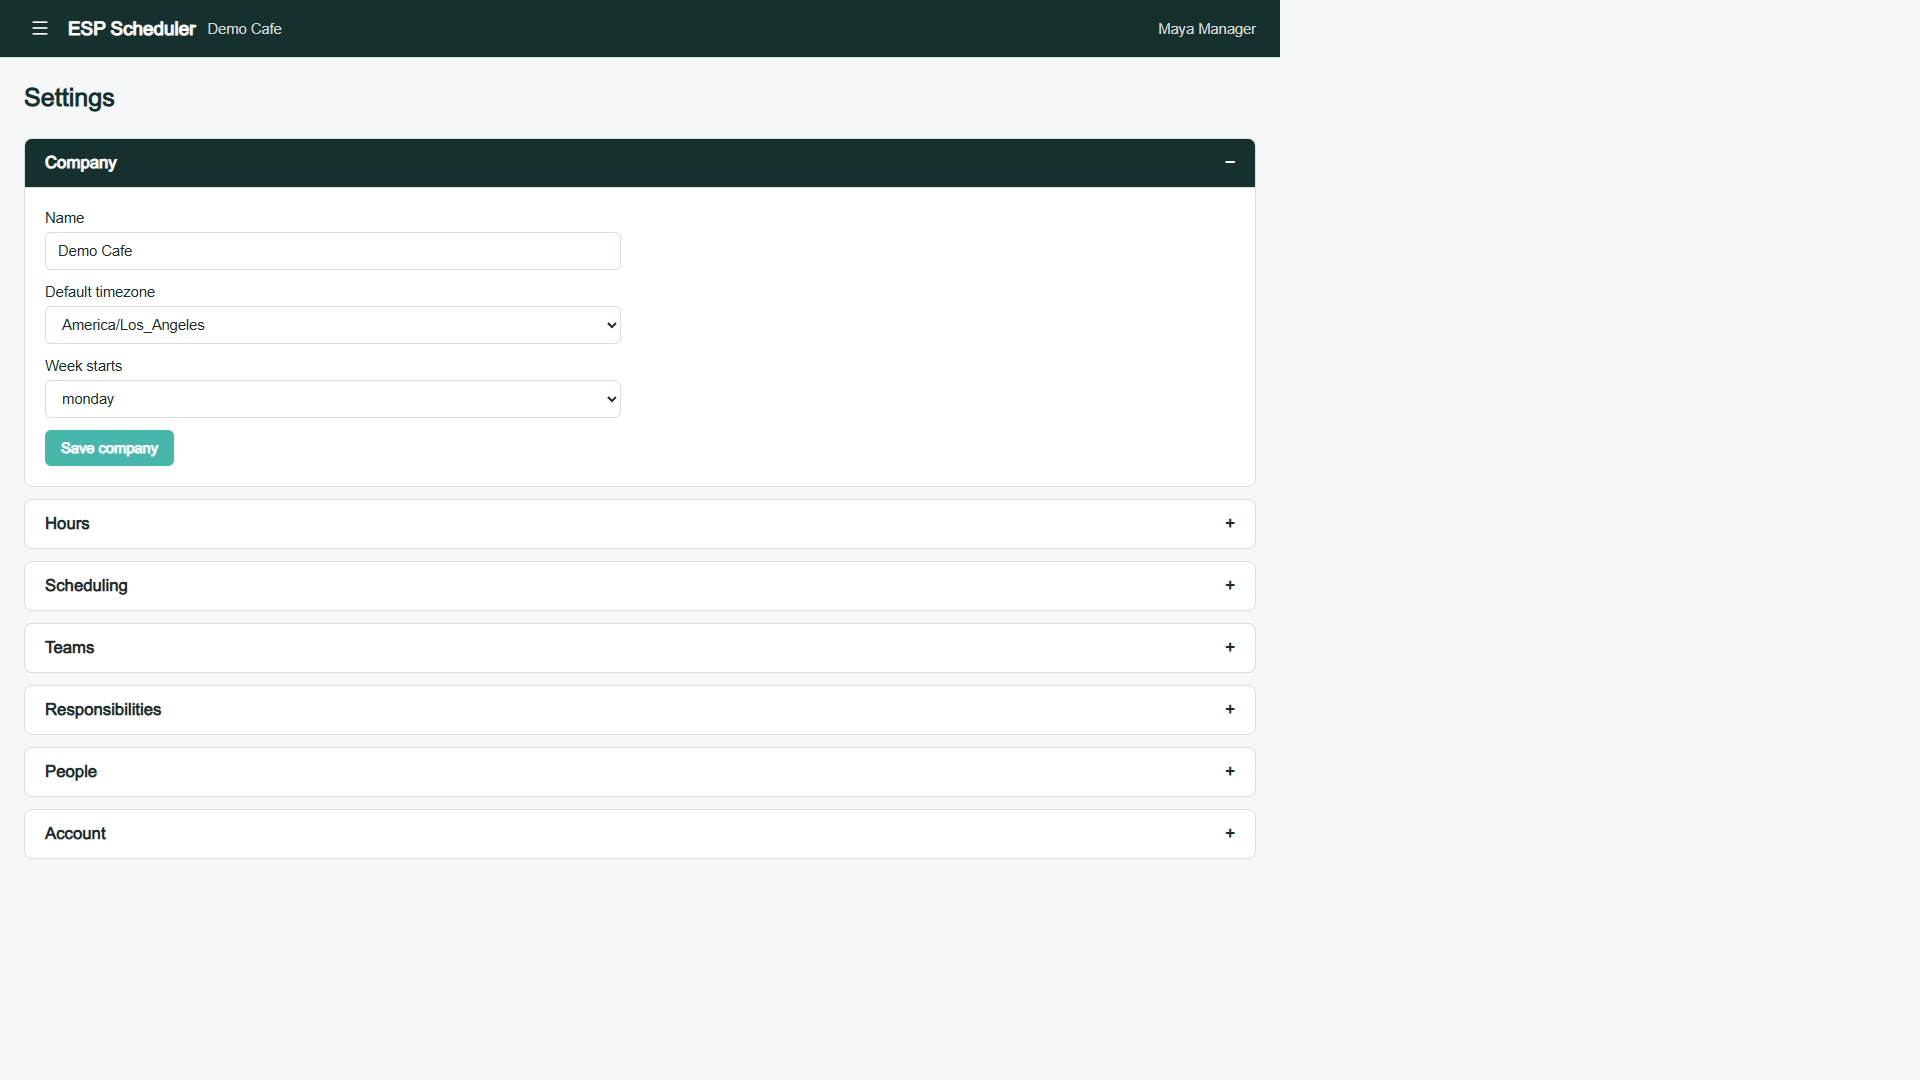
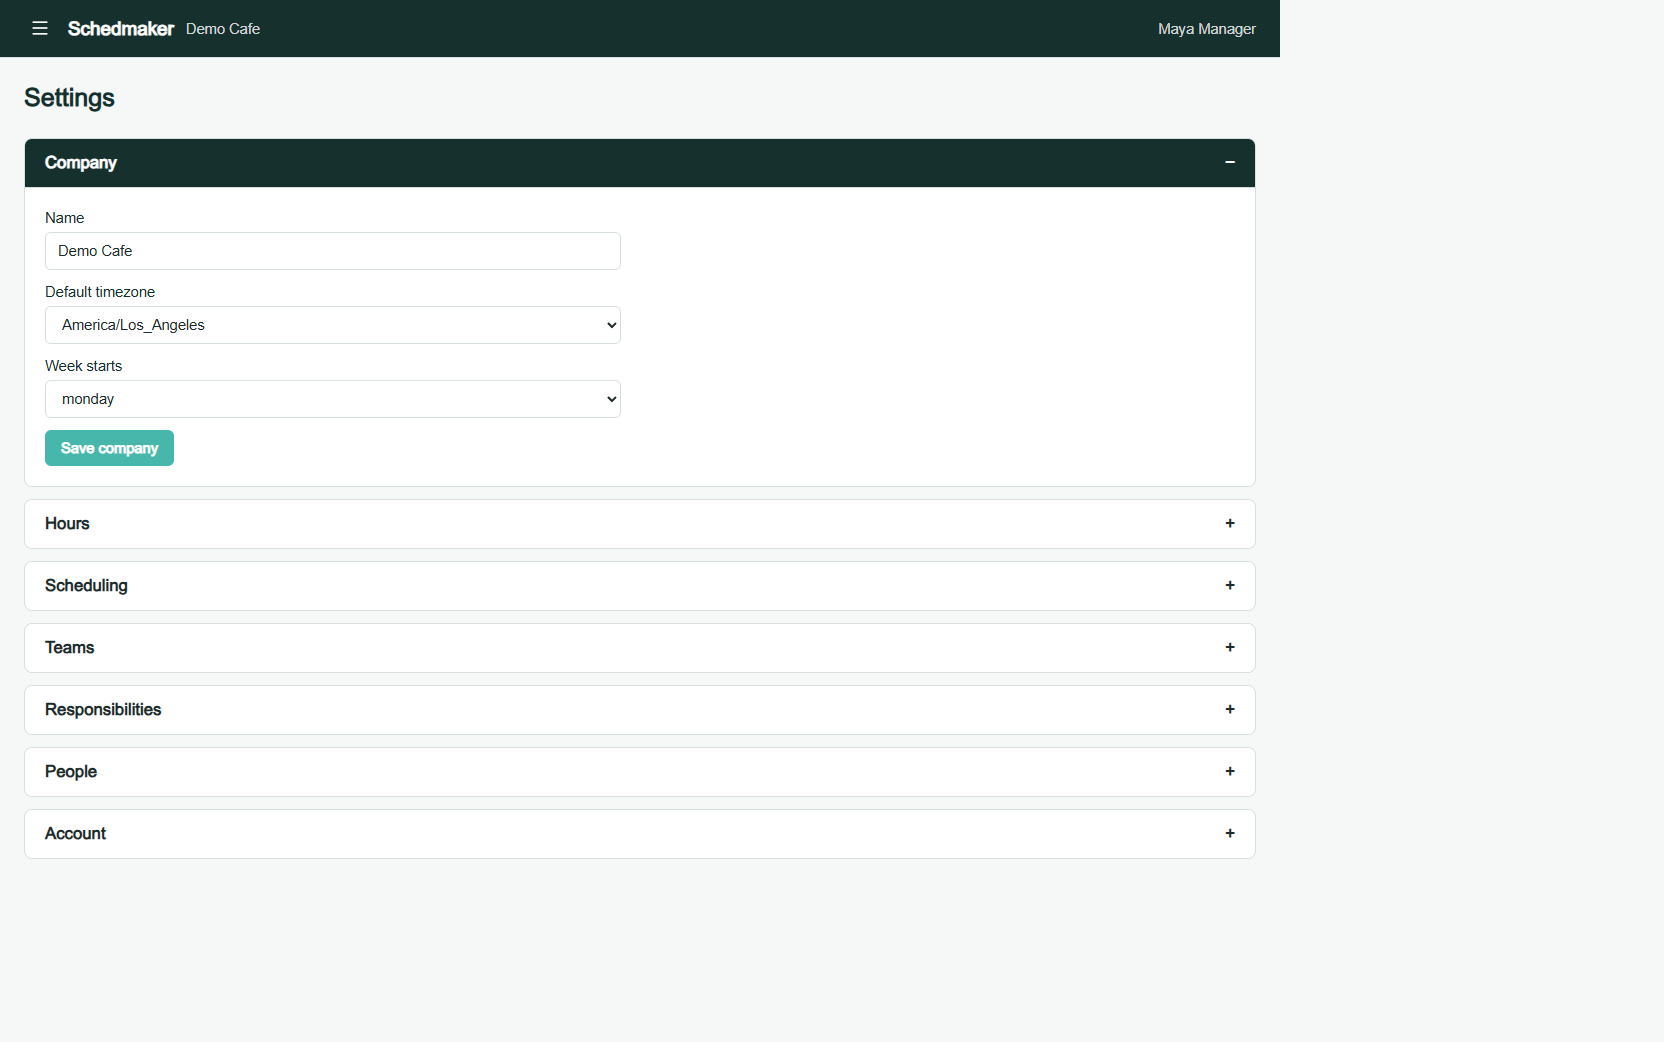
Rename the product to Schedmaker.
Drop the ESP Scheduler name from the UI, docs, and demo accounts so the project is not confused with an unrelated licensed product.

Changed region(s): [[0.0, 0.0, 0.7812, 0.8292], [0.5938, 0.0, 0.7812, 0.0614], [0.625, 0.4607, 0.6562, 0.4914]]

diff --git a/web/lib/notifications/index.ts b/web/lib/notifications/index.ts
@@ -14,7 +14,7 @@ export async function notifyOnboardWorker(companyId: string, userId: string) {
   ]);
   if (!company || !user) return;
 
-  const subject = `You've been added to ${company.name} on ESP Scheduler`;
+  const subject = `You've been added to ${company.name} on Schedmaker`;
   const body = `Hi ${user.name || "there"}, you were added to ${company.name}. Activate or log in to see your schedule.`;
   await sendEmail({ to: user.email, subject, html: `<p>${body}</p>` });
   if (user.phoneNumber) {
@@ -36,7 +36,7 @@ export async function notifyNewShifts(
     html: `<p>You have new published shift(s):</p><p>${list}</p>`,
   });
   if (user.phoneNumber) {
-    await sendSms({ to: user.phoneNumber, body: `New ESP Scheduler shift(s): ${text}` });
+    await sendSms({ to: user.phoneNumber, body: `New Schedmaker shift(s): ${text}` });
   }
 }
 
@@ -54,7 +54,7 @@ export async function notifyRemovedShifts(
     html: `<p>These published shift(s) were removed or unpublished:</p><p>${list}</p>`,
   });
   if (user.phoneNumber) {
-    await sendSms({ to: user.phoneNumber, body: `ESP Scheduler shift(s) removed: ${text}` });
+    await sendSms({ to: user.phoneNumber, body: `Schedmaker shift(s) removed: ${text}` });
   }
 }
 
@@ -75,7 +75,7 @@ export async function notifyChangedShift(
   if (user.phoneNumber) {
     await sendSms({
       to: user.phoneNumber,
-      body: `ESP Scheduler shift updated: ${from} -> ${to}`,
+      body: `Schedmaker shift updated: ${from} -> ${to}`,
     });
   }
 }
@@ -83,7 +83,7 @@ export async function notifyChangedShift(
 export async function notifyActivation(email: string, name: string, url: string) {
   await sendEmail({
     to: email,
-    subject: "Activate your ESP Scheduler account",
+    subject: "Activate your Schedmaker account",
     html: `<p>Hi ${name || "there"},</p><p>Confirm your account and set a password:</p><p><a href="${url}">${url}</a></p>`,
   });
 }
@@ -91,7 +91,7 @@ export async function notifyActivation(email: string, name: string, url: string)
 export async function notifyPasswordReset(email: string, url: string) {
   await sendEmail({
     to: email,
-    subject: "Reset your ESP Scheduler password",
+    subject: "Reset your Schedmaker password",
     html: `<p>Reset your password using this link (expires in 2 hours):</p><p><a href="${url}">${url}</a></p>`,
   });
 }

diff --git a/web/prisma/seed.ts b/web/prisma/seed.ts
@@ -35,31 +35,31 @@ async function upsertUser(params: {
 
 async function main() {
   const support = await upsertUser({
-    email: "support@esp-scheduler.local",
+    email: "support@schedmaker.local",
     name: "Support Admin",
     password: "scheduler123",
     support: true,
   });
   const manager = await upsertUser({
-    email: "manager@esp-scheduler.local",
+    email: "manager@schedmaker.local",
     name: "Maya Manager",
     password: "scheduler123",
     phoneNumber: "+15555550100",
   });
   const alice = await upsertUser({
-    email: "alice@esp-scheduler.local",
+    email: "alice@schedmaker.local",
     name: "Alice Nguyen",
     password: "scheduler123",
     phoneNumber: "+15555550101",
   });
   const bob = await upsertUser({
-    email: "bob@esp-scheduler.local",
+    email: "bob@schedmaker.local",
     name: "Bob Alvarez",
     password: "scheduler123",
     phoneNumber: "+15555550102",
   });
   const cara = await upsertUser({
-    email: "cara@esp-scheduler.local",
+    email: "cara@schedmaker.local",
     name: "Cara Patel",
     password: "scheduler123",
     phoneNumber: "+15555550103",
@@ -207,7 +207,7 @@ async function main() {
     });
   }
 
-  console.log("Seeded Demo Cafe. Log in as manager@esp-scheduler.local / scheduler123");
+  console.log("Seeded Demo Cafe. Log in as manager@schedmaker.local / scheduler123");
 }
 
 main()

diff --git a/web/app/api/ical/[userId]/route.ts b/web/app/api/ical/[userId]/route.ts
@@ -45,7 +45,7 @@ export async function GET(
         : `Shift @ ${shift.team.name}`;
       return [
         "BEGIN:VEVENT",
-        `UID:${shift.id}@esp-scheduler`,
+        `UID:${shift.id}@schedmaker`,
         `DTSTAMP:${formatIcsDate(now)}`,
         `DTSTART:${formatIcsDate(shift.start)}`,
         `DTEND:${formatIcsDate(shift.stop)}`,
@@ -58,7 +58,7 @@ export async function GET(
   const body = [
     "BEGIN:VCALENDAR",
     "VERSION:2.0",
-    "PRODID:-//ESP Scheduler//EN",
+    "PRODID:-//Schedmaker//EN",
     "CALSCALE:GREGORIAN",
     events,
     "END:VCALENDAR",

diff --git a/web/app/page.tsx b/web/app/page.tsx
@@ -14,7 +14,7 @@ export default async function HomePage() {
     <div className="min-h-screen">
       <AuthHeader />
       <main className="mx-auto max-w-md px-6 py-16">
-        <h1 className="mb-2 text-3xl font-bold text-ink">ESP Scheduler</h1>
+        <h1 className="mb-2 text-3xl font-bold text-ink">Schedmaker</h1>
         <p className="mb-6 text-sm text-muted">Log in to manage your schedule.</p>
         <div className="rounded-lg border border-border bg-white p-6">
           <LoginForm />

diff --git a/web/components/app/app-shell.tsx b/web/components/app/app-shell.tsx
@@ -25,7 +25,7 @@ export async function AppShell({
           <div className="flex items-center gap-3">
             <AppMenu companyId={companyId} isAdmin={isAdmin} teams={teams} />
             <Link href="/app" className="text-lg font-bold text-teal">
-              ESP Scheduler
+              Schedmaker
             </Link>
             {companyName ? (
               <span className="text-sm text-white/80">{companyName}</span>

diff --git a/web/components/marketing/site-header.tsx b/web/components/marketing/site-header.tsx
@@ -7,7 +7,7 @@ export async function AuthHeader() {
     <header className="border-b border-border bg-white">
       <div className="mx-auto flex max-w-6xl items-center justify-between px-6 py-4">
         <Link href="/" className="text-xl font-bold text-teal">
-          ESP Scheduler
+          Schedmaker
         </Link>
         <nav className="flex items-center gap-5 text-sm font-medium">
           {session?.user ? (

diff --git a/web/lib/notifications/email.ts b/web/lib/notifications/email.ts
@@ -12,7 +12,7 @@ export async function sendEmail(params: {
   }
 
   const body = new URLSearchParams();
-  body.set("from", `ESP Scheduler <mailgun@${domain}>`);
+  body.set("from", `Schedmaker <mailgun@${domain}>`);
   body.set("to", params.to);
   body.set("subject", params.subject);
   body.set("html", params.html);

diff --git a/web/app/layout.tsx b/web/app/layout.tsx
@@ -13,7 +13,7 @@ const geistMono = Geist_Mono({
 });
 
 export const metadata: Metadata = {
-  title: "ESP Scheduler",
+  title: "Schedmaker",
   description: "Employee scheduling for teams",
 };
 

diff --git a/README.md b/README.md
@@ -1,4 +1,4 @@
-# ESP Scheduler
+# Schedmaker
 
 Employee scheduling for restaurants, retail, and other shift-based teams. Build a week or a single day on a 15-minute grid, assign jobs and breaks, and see meal-break warnings and overtime as you go.
 
@@ -102,8 +102,8 @@ Open [http://localhost:3000](http://localhost:3000).
 
 | Role | Email | Password |
 | --- | --- | --- |
-| Manager | `manager@esp-scheduler.local` | `scheduler123` |
-| Support | `support@esp-scheduler.local` | `scheduler123` |
+| Manager | `manager@schedmaker.local` | `scheduler123` |
+| Support | `support@schedmaker.local` | `scheduler123` |
 
 Set `DATABASE_URL` to your Postgres instance and generate `AUTH_SECRET`. The seed targets the `scheduler` database as `schedUser`. `npx prisma migrate deploy` does not need `CREATEDB` for a shadow database.
 
@@ -156,4 +156,4 @@ Name, default timezone, and the day the workweek starts.
 
 ---
 
-ESP Scheduler is an [MIT-licensed](LICENSE) project. It started from [Staffjoy](https://github.com/Staffjoy/v2), the open-source employee scheduler created by StaffJoy, Inc.
+Schedmaker is an [MIT-licensed](LICENSE) project. It started from [Staffjoy](https://github.com/Staffjoy/v2), the open-source employee scheduler created by StaffJoy, Inc.

diff --git a/web/README.md b/web/README.md
@@ -1,6 +1,6 @@
-# ESP Scheduler
+# Schedmaker
 
-The Next.js app for [ESP Scheduler](../README.md). Employee scheduling for teams, released under the MIT License.
+The Next.js app for [Schedmaker](../README.md). Employee scheduling for teams, released under the MIT License.
 
 For the feature tour and screenshots, see the [repository README](../README.md).
 
@@ -29,8 +29,8 @@ npm run dev
 
 Open [http://localhost:3000](http://localhost:3000).
 
-Seeded login: `manager@esp-scheduler.local` / `scheduler123`  
-Support login: `support@esp-scheduler.local` / `scheduler123`
+Seeded login: `manager@schedmaker.local` / `scheduler123`  
+Support login: `support@schedmaker.local` / `scheduler123`
 
 ## Postgres
 
